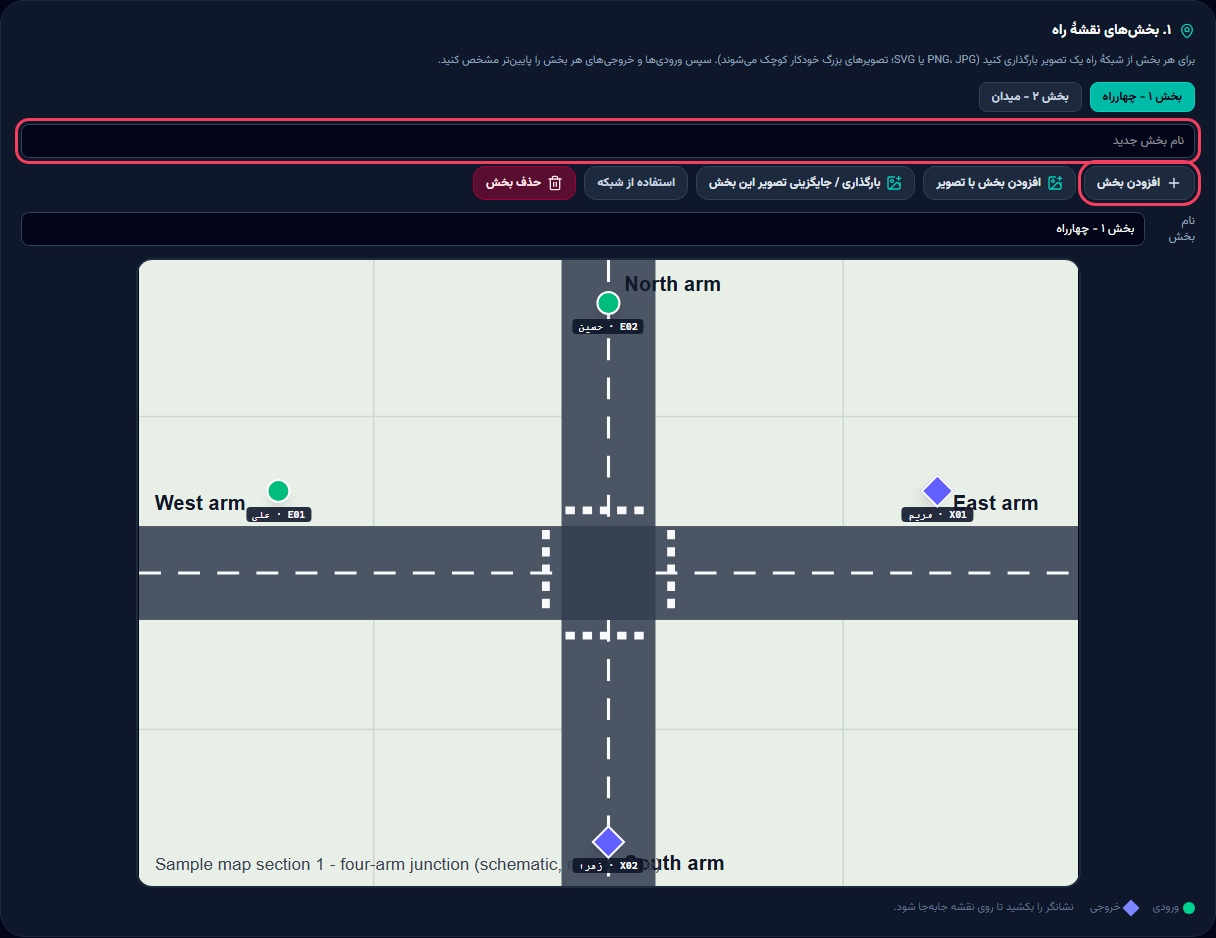
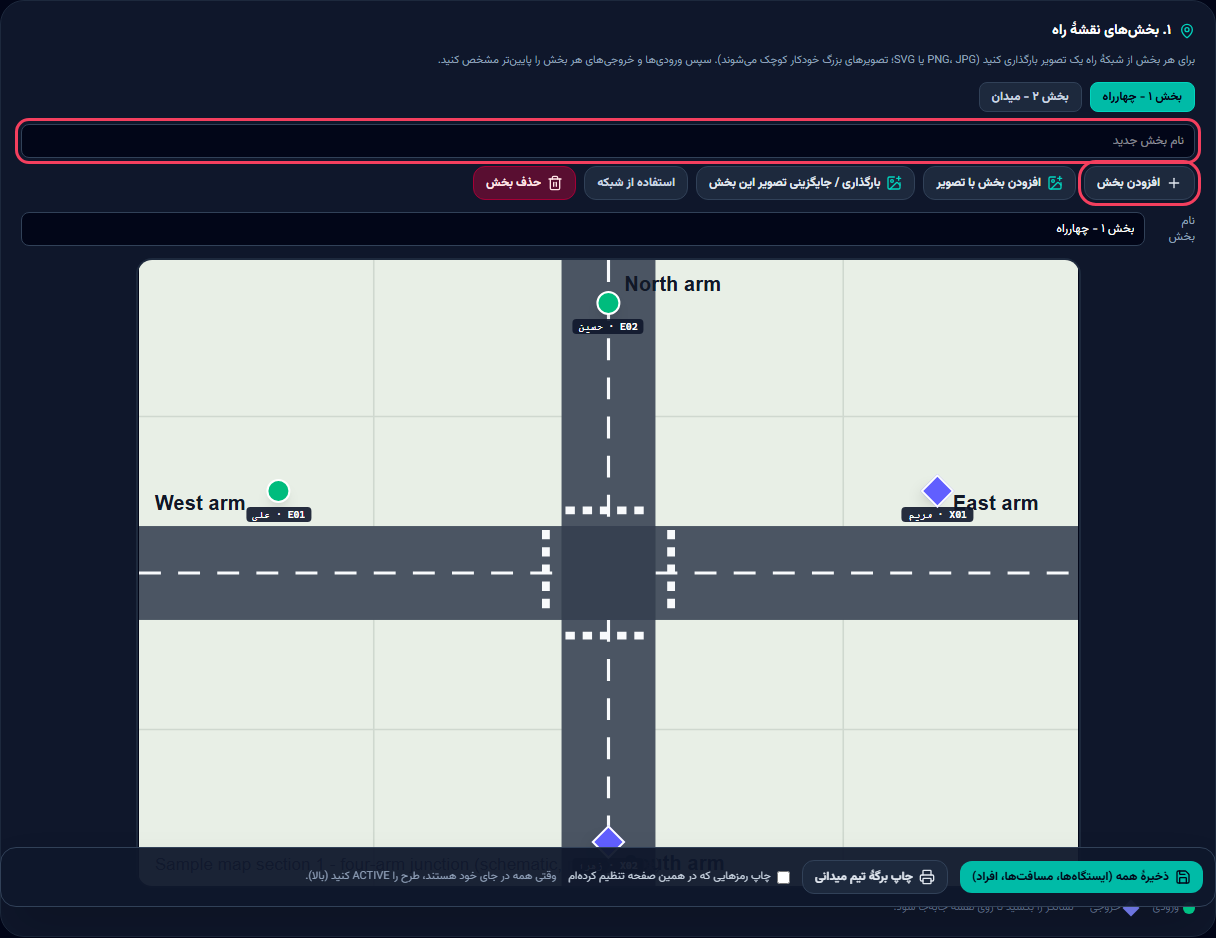
Set or change each person's username and password inside the point card; suggested short credentials; optional printing of the passwords set on the page; save bar not sticky on phones

Changed region(s): [[0.0938, 0.8966, 1.0, 0.9893]]

diff --git a/src/components/StudySetup.tsx b/src/components/StudySetup.tsx
@@ -29,7 +29,11 @@ export const StudySetup: React.FC<Props> = ({ lang, study, onChanged }) => {
   const [mapId, setMapId] = useState<string | null>(null);
   const [tick, setTick] = useState(0); // bump to reload the local edit state from the server
   const [newMapName, setNewMapName] = useState('');
-  const [person, setPerson] = useState({ full_name: '', username: '', password: '', point: '' });
+  const [np, setNp] = useState<{ code: string; full_name: string; username: string; password: string } | null>(null); // inline "new person" form of one point card
+  const [edit, setEdit] = useState<Record<string, { username: string; password: string }>>({});
+  // credentials set on THIS page: only kept in memory (passwords are hashed on the server and cannot be shown again)
+  const [fresh, setFresh] = useState<Record<string, { username: string; password?: string }>>({});
+  const [showCreds, setShowCreds] = useState(false);
   const canvas = useRef<HTMLDivElement>(null);
   const [ratios, setRatios] = useState<Record<string, number>>({}); // width/height of each map image: markers are % of the IMAGE, so the frame must have its shape
   const [form, setForm] = useState({ name: '', study_date: new Date().toISOString().slice(0, 10), start_time: '08:00', end_time: '12:00', timezone: 'Asia/Tehran', supervisor_name: '' });
@@ -121,13 +125,47 @@ export const StudySetup: React.FC<Props> = ({ lang, study, onChanged }) => {
   const peopleOf = (code: string) => asg.map((r, i) => ({ r, i })).filter((x) => x.r.point_code === code);
   const addPerson = (code: string, userId: string) => userId && !asg.some((r) => r.point_code === code && r.user_id === userId) && setAsg([...asg, { user_id: userId, point_code: code, period_start: '', period_end: '' }]);
 
-  const createPerson = () => run(async () => {
-    if (!person.point) throw new Error(pick(lang, 'Choose the point this person will count at.', 'ایستگاهی را که این فرد در آن شمارش میکند انتخاب کنید.'));
-    const u = await api<{ id: string }>('POST', '/users', { username: person.username.trim().toLowerCase(), full_name: person.full_name.trim(), role: 'OBSERVER', password: person.password });
-    setAsg((a) => [...a, { user_id: u.id, point_code: person.point, period_start: '', period_end: '' }]);
-    setPerson({ full_name: '', username: '', password: '', point: person.point });
+  /** Suggestions that keep credentials short: username = the point code (e1, x2 ...), password = 2 digits without repeats or runs. */
+  const suggestUsername = (code: string) => {
+    const taken = new Set(observers.map((o) => o.username));
+    const base = code.toLowerCase();
+    let u = base;
+    for (let n = 2; taken.has(u); n++) u = `${base}${n}`;
+    return u;
+  };
+  const suggestPassword = () => {
+    for (;;) {
+      const n = 10 + (crypto.getRandomValues(new Uint32Array(1))[0] % 90);
+      const x = Math.floor(n / 10), y = n % 10;
+      if (x !== y && Math.abs(x - y) !== 1) return String(n);
+    }
+  };
+  const openNewPerson = (code: string) => setNp({ code, full_name: '', username: suggestUsername(code), password: suggestPassword() });
+
+  const createPersonAt = () => run(async () => {
+    if (!np) return;
+    const username = np.username.trim().toLowerCase();
+    const u = await api<{ id: string }>('POST', '/users', { username, full_name: np.full_name.trim(), role: 'OBSERVER', password: np.password });
+    setAsg((a) => [...a, { user_id: u.id, point_code: np.code, period_start: '', period_end: '' }]);
+    setFresh((f) => ({ ...f, [u.id]: { username, password: np.password } }));
+    setNp(null);
     await loadObservers();
   }, pick(lang, 'Account created and placed at the point. Press "Save everything" to confirm the assignment.', 'حساب ساخته شد و در ایستگاه قرار گرفت. برای نهاییشدن «ذخیرهٔ همه» را بزنید.'));
+
+  const applyCreds = (userId: string) => run(async () => {
+    const e = edit[userId];
+    const cur = observers.find((o) => o.id === userId);
+    if (!e || !cur) return;
+    const body: { username?: string; password?: string } = {};
+    const uname = e.username.trim().toLowerCase();
+    if (uname && uname !== cur.username) body.username = uname;
+    if (e.password) body.password = e.password;
+    if (!Object.keys(body).length) throw new Error(pick(lang, 'Nothing to change.', 'چیزی برای تغییر نیست.'));
+    await api('PATCH', `/users/${userId}`, body);
+    setFresh((f) => ({ ...f, [userId]: { username: body.username ?? cur.username, password: body.password ?? f[userId]?.password } }));
+    setEdit((x) => { const { [userId]: _drop, ...rest } = x; return rest; });
+    await loadObservers();
+  }, pick(lang, 'Username / password updated (effective immediately; the person is signed out everywhere if the password changed).', 'نام کاربری / رمز بهروز شد (بلافاصله اعمال میشود؛ اگر رمز عوض شده باشد فرد از همهٔ دستگاهها خارج میشود).'));
 
   const saveAll = () => run(async () => {
     const codes = new Set(points.map((p) => p.code));
@@ -237,33 +275,52 @@ export const StudySetup: React.FC<Props> = ({ lang, study, onChanged }) => {
                       <select aria-label="Section" value={p.map_id ?? firstMap ?? ''} onChange={(e) => setPoint(i, { map_id: e.target.value })} className={inputCls}>{maps.map((m) => <option key={m.id} value={m.id}>{m.name}</option>)}</select>
                     </div>
                     <div className="space-y-1.5">
-                      {peopleOf(p.code).map(({ r, i: ai }) => (
-                        <div key={ai} className="flex items-center gap-2 text-xs">
-                          <span className="px-2 py-1 rounded-lg bg-teal-500/15 border border-teal-500/30 text-teal-200 flex-1 truncate" data-testid={`person-${p.code}`}>{nameOf(r.user_id)?.full_name ?? '?'} <span className="font-mono text-slate-400">@{nameOf(r.user_id)?.username}</span></span>
-                          <details className="text-[10px] text-slate-400"><summary className="cursor-pointer">{pick(lang, 'shift', 'شیفت')}</summary>
-                            <div className="grid gap-1 mt-1"><input type="datetime-local" aria-label="From" value={r.period_start} onChange={(e) => setAsg(asg.map((x, k) => (k === ai ? { ...x, period_start: e.target.value } : x)))} className={inputCls} /><input type="datetime-local" aria-label="To" value={r.period_end} onChange={(e) => setAsg(asg.map((x, k) => (k === ai ? { ...x, period_end: e.target.value } : x)))} className={inputCls} /></div></details>
-                          <button onClick={() => setAsg(asg.filter((_, k) => k !== ai))} aria-label="Remove person" className="text-slate-500 hover:text-rose-400"><X className="w-3.5 h-3.5" /></button>
-                        </div>
-                      ))}
+                      {peopleOf(p.code).map(({ r, i: ai }) => {
+                        const u = nameOf(r.user_id);
+                        const e = edit[r.user_id];
+                        const changed = !!e && ((e.username.trim().toLowerCase() !== (u?.username ?? '') && e.username.trim() !== '') || e.password !== '');
+                        return (
+                          <div key={ai} className="rounded-xl bg-teal-500/10 border border-teal-500/30 p-2 space-y-1.5 text-xs">
+                            <div className="flex items-center gap-2">
+                              <span className="text-teal-200 flex-1 truncate font-semibold" data-testid={`person-${p.code}`}>{u?.full_name ?? '?'} <span className="font-mono text-slate-400">@{u?.username}</span></span>
+                              <details className="text-[10px] text-slate-400"><summary className="cursor-pointer">{pick(lang, 'shift', 'شیفت')}</summary>
+                                <div className="grid gap-1 mt-1"><input type="datetime-local" aria-label="From" value={r.period_start} onChange={(ev) => setAsg(asg.map((x, k) => (k === ai ? { ...x, period_start: ev.target.value } : x)))} className={inputCls} /><input type="datetime-local" aria-label="To" value={r.period_end} onChange={(ev) => setAsg(asg.map((x, k) => (k === ai ? { ...x, period_end: ev.target.value } : x)))} className={inputCls} /></div></details>
+                              <button onClick={() => setAsg(asg.filter((_, k) => k !== ai))} aria-label="Remove person" className="text-slate-500 hover:text-rose-400"><X className="w-3.5 h-3.5" /></button>
+                            </div>
+                            <div className="grid grid-cols-[1fr_1fr_auto] gap-1.5">
+                              <input aria-label="Username" value={e?.username ?? u?.username ?? ''} onChange={(ev) => setEdit({ ...edit, [r.user_id]: { username: ev.target.value.toLowerCase(), password: e?.password ?? '' } })} className={`${inputCls} font-mono`} data-testid={`person-username-${p.code}`} />
+                              <input aria-label="New password" placeholder={pick(lang, 'new password', 'رمز جدید')} autoComplete="off" value={e?.password ?? ''} onChange={(ev) => setEdit({ ...edit, [r.user_id]: { username: e?.username ?? u?.username ?? '', password: ev.target.value } })} className={`${inputCls} font-mono`} data-testid={`person-password-${p.code}`} />
+                              <button onClick={() => applyCreds(r.user_id)} disabled={busy || !changed} className={`${btn} bg-slate-800 border border-slate-700 text-slate-200 disabled:opacity-40`} data-testid={`person-apply-${p.code}`}>{pick(lang, 'Apply', 'اعمال')}</button>
+                            </div>
+                            {fresh[r.user_id]?.password && <p className="text-[11px] text-amber-200">{pick(lang, 'Password set on this page', 'رمز تنظیمشده در این صفحه')}: <b className="font-mono" data-testid={`person-fresh-${p.code}`}>{fresh[r.user_id].password}</b> <span className="text-slate-400">({pick(lang, 'visible only until you leave this page', 'فقط تا خروج از این صفحه دیده میشود')})</span></p>}
+                          </div>
+                        );
+                      })}
                       <select aria-label={`Add person at ${p.code}`} value="" onChange={(e) => addPerson(p.code, e.target.value)} className={inputCls} data-testid={`add-person-${p.code}`}>
                         <option value="">{peopleOf(p.code).length ? pick(lang, '+ another person (shift)', '+ فرد دیگر (شیفت)') : pick(lang, '+ choose the person counting here', '+ فرد شمارشگر این ایستگاه را انتخاب کنید')}</option>
                         {observers.filter((o) => !peopleOf(p.code).some((x) => x.r.user_id === o.id)).map((o) => <option key={o.id} value={o.id}>{o.full_name} (@{o.username})</option>)}
                       </select>
+                      {np?.code === p.code ? (
+                        <div className="rounded-xl border border-slate-700 p-2 space-y-1.5" data-testid={`np-form-${p.code}`}>
+                          <input aria-label="Full name" placeholder={pick(lang, 'Full name', 'نام و نام خانوادگی')} value={np.full_name} onChange={(ev) => setNp({ ...np, full_name: ev.target.value })} className={inputCls} data-testid="np-name" />
+                          <div className="grid grid-cols-2 gap-1.5">
+                            <input aria-label="Username" placeholder={pick(lang, 'username', 'نام کاربری')} value={np.username} onChange={(ev) => setNp({ ...np, username: ev.target.value.toLowerCase() })} className={`${inputCls} font-mono`} data-testid="np-username" />
+                            <input aria-label="Password" placeholder={pick(lang, 'password', 'رمز')} autoComplete="off" value={np.password} onChange={(ev) => setNp({ ...np, password: ev.target.value })} className={`${inputCls} font-mono`} data-testid="np-password" />
+                          </div>
+                          <p className="text-[10px] text-slate-400">{pick(lang, 'Suggested: username = point code, password = 2 digits (an observer password may be as short as 2 characters). Edit freely.', 'پیشنهاد: نام کاربری = کد ایستگاه، رمز = ۲ رقم (رمز آمارگیر میتواند ۲ نویسه باشد). آزادانه ویرایش کنید.')}</p>
+                          <div className="flex gap-2">
+                            <button onClick={createPersonAt} disabled={busy || !np.full_name.trim() || np.username.trim().length < 2 || np.password.length < 2} className={`${btn} bg-teal-500 text-slate-950 disabled:opacity-40`} data-testid="np-create"><UserPlus className="w-4 h-4" />{pick(lang, 'Create and place here', 'ساخت و قراردادن اینجا')}</button>
+                            <button onClick={() => setNp(null)} className={`${btn} bg-slate-800 border border-slate-700 text-slate-300`}>{pick(lang, 'Cancel', 'انصراف')}</button>
+                          </div>
+                        </div>
+                      ) : (
+                        <button onClick={() => openNewPerson(p.code)} className={`${btn} w-full justify-center bg-slate-800 border border-slate-700 text-slate-200`} data-testid={`new-person-${p.code}`}><UserPlus className="w-4 h-4 text-teal-400" />{pick(lang, 'New person for this point (create account)', 'فرد جدید برای این ایستگاه (ساخت حساب)')}</button>
+                      )}
                     </div>
                   </div>
                 ))}
               </div>
 
-              <div className="rounded-2xl border border-slate-800 bg-slate-950 p-3 space-y-2" data-testid="quick-person">
-                <h4 className="text-xs font-bold text-white flex items-center gap-2"><UserPlus className="w-4 h-4 text-teal-400" />{pick(lang, 'New person: create an account and place them at a point', 'فرد جدید: ساخت حساب و قراردادن در یک ایستگاه')}</h4>
-                <div className="grid grid-cols-2 md:grid-cols-5 gap-2">
-                  <input aria-label="Full name" placeholder={pick(lang, 'Full name', 'نام و نام خانوادگی')} value={person.full_name} onChange={(e) => setPerson({ ...person, full_name: e.target.value })} className={inputCls} data-testid="qp-name" />
-                  <input aria-label="Username" placeholder={pick(lang, 'username (e.g. e1)', 'نام کاربری (مثلاً e1)')} value={person.username} onChange={(e) => setPerson({ ...person, username: e.target.value.toLowerCase() })} className={inputCls} data-testid="qp-username" />
-                  <input aria-label="Password" type="password" autoComplete="new-password" placeholder={pick(lang, 'password (min 2)', 'گذرواژه (حداقل ۲)')} value={person.password} onChange={(e) => setPerson({ ...person, password: e.target.value })} className={inputCls} data-testid="qp-password" />
-                  <select aria-label="Point" value={person.point} onChange={(e) => setPerson({ ...person, point: e.target.value })} className={inputCls} data-testid="qp-point"><option value="">{pick(lang, 'Point…', 'ایستگاه…')}</option>{points.map((p) => <option key={p.code} value={p.code}>{p.code}</option>)}</select>
-                  <button onClick={createPerson} disabled={busy || !person.full_name || !person.username || person.password.length < 2} className={`${btn} bg-slate-800 border border-slate-700 text-slate-200 justify-center`} data-testid="qp-create"><UserPlus className="w-4 h-4" />{pick(lang, 'Create', 'ساخت')}</button>
-                </div>
-              </div>
             </section>
 
             <section className="bg-slate-900 rounded-3xl p-5 border border-slate-800 space-y-3">
@@ -274,9 +331,10 @@ export const StudySetup: React.FC<Props> = ({ lang, study, onChanged }) => {
               )}
             </section>
 
-            <div className="sticky bottom-3 flex flex-wrap items-center gap-3 bg-slate-900/95 border border-slate-700 rounded-2xl p-3 shadow-2xl">
+            <div className="sm:sticky bottom-3 flex flex-wrap items-center gap-3 bg-slate-900/95 border border-slate-700 rounded-2xl p-3 shadow-2xl">
               <button onClick={saveAll} disabled={busy} className={`${btn} bg-teal-500 text-slate-950`} data-testid="save-all"><Save className="w-4 h-4" />{pick(lang, 'Save everything (points, distances, people)', 'ذخیرهٔ همه (ایستگاهها، مسافتها، افراد)')}</button>
               <button onClick={() => window.print()} className={`${btn} bg-slate-800 border border-slate-700 text-slate-200`} data-testid="print-sheet"><Printer className="w-4 h-4" />{pick(lang, 'Print team sheet', 'چاپ برگهٔ تیم میدانی')}</button>
+              <label className="flex items-center gap-1.5 text-[11px] text-slate-300"><input type="checkbox" checked={showCreds} onChange={(e) => setShowCreds(e.target.checked)} data-testid="sheet-creds" />{pick(lang, 'print the passwords I set on this page', 'چاپ رمزهایی که در همین صفحه تنظیم کردهام')}</label>
               <span className="text-[11px] text-slate-400">{pick(lang, 'Set the study ACTIVE (above) when everyone is in place.', 'وقتی همه در جای خود هستند، طرح را ACTIVE کنید (بالا).')}</span>
             </div>
           </>
@@ -287,12 +345,12 @@ export const StudySetup: React.FC<Props> = ({ lang, study, onChanged }) => {
         <section className="hidden print:block bg-white text-black p-8" data-testid="team-sheet" dir={lang === 'fa' ? 'rtl' : 'ltr'}>
           <h1 className="text-xl font-black">{pick(lang, 'Field team sheet', 'برگهٔ تیم میدانی')} - {study.name}</h1>
           <p className="text-sm">{study.study_date} · {study.start_time}-{study.end_time} · {study.timezone}</p>
-          <p className="text-sm mb-3">{pick(lang, 'Sign in at', 'ورود از نشانی')}: <b>{window.location.origin}</b> · {pick(lang, 'Open the "Field Collector" tab; your station is pinned at the top. Passwords are handed over separately.', 'تب «ثبت میدانی» را باز کنید؛ ایستگاه شما بالای صفحه قفل است. گذرواژهها جداگانه تحویل داده میشوند.')}</p>
+          <p className="text-sm mb-3">{pick(lang, 'Sign in at', 'ورود از نشانی')}: <b>{window.location.origin}</b> · {pick(lang, 'Open the "Field Collector" tab; your station is pinned at the top.', 'تب «ثبت میدانی» را باز کنید؛ ایستگاه شما بالای صفحه قفل است.')} {showCreds ? pick(lang, 'CONFIDENTIAL: this sheet contains passwords - hand it over personally and do not keep copies.', 'محرمانه: این برگه رمز دارد؛ حضوری تحویل دهید و نسخه نگه ندارید.') : pick(lang, 'Passwords are handed over separately.', 'گذرواژهها جداگانه تحویل داده میشوند.')}</p>
           <table className="w-full border-collapse text-sm">
-            <thead><tr className="bg-gray-200">{[pick(lang, 'Point', 'ایستگاه'), pick(lang, 'Type', 'نوع'), pick(lang, 'Description', 'توضیح'), pick(lang, 'Map section', 'بخش نقشه'), pick(lang, 'Person (username)', 'فرد (نام کاربری)'), pick(lang, 'Signature', 'امضا')].map((h) => <th key={h} className="border border-black p-2 text-start">{h}</th>)}</tr></thead>
+            <thead><tr className="bg-gray-200">{[pick(lang, 'Point', 'ایستگاه'), pick(lang, 'Type', 'نوع'), pick(lang, 'Description', 'توضیح'), pick(lang, 'Map section', 'بخش نقشه'), showCreds ? pick(lang, 'Person (username / password)', 'فرد (نام کاربری / رمز)') : pick(lang, 'Person (username)', 'فرد (نام کاربری)'), pick(lang, 'Signature', 'امضا')].map((h) => <th key={h} className="border border-black p-2 text-start">{h}</th>)}</tr></thead>
             <tbody>{sheetRows.map(({ p, people }) => (
               <tr key={p.code}><td className="border border-black p-2 font-mono font-bold">{p.code}</td><td className="border border-black p-2">{p.point_type === 'ENTRY' ? pick(lang, 'Entry', 'ورودی') : pick(lang, 'Exit', 'خروجی')}</td><td className="border border-black p-2">{p.description}</td>
-                <td className="border border-black p-2">{maps.find((m) => m.id === (p.map_id ?? firstMap))?.name}</td><td className="border border-black p-2">{people.length ? people.map((u) => `${u.full_name} (${u.username})`).join('، ') : '—'}</td><td className="border border-black p-2 w-32" /></tr>
+                <td className="border border-black p-2">{maps.find((m) => m.id === (p.map_id ?? firstMap))?.name}</td><td className="border border-black p-2">{people.length ? people.map((u) => `${u.full_name} (${u.username}${showCreds && fresh[u.id]?.password ? ' / ' + fresh[u.id].password : ''})`).join('، ') : '—'}</td><td className="border border-black p-2 w-32" /></tr>
             ))}</tbody>
           </table>
         </section>

diff --git a/e2e/app.spec.ts b/e2e/app.spec.ts
@@ -160,13 +160,16 @@ test.describe('supervisor and administrator', () => {
     await expect(page.getByTestId('marker-E01')).toBeVisible();
     await page.getByTestId('dist-E01-X01').fill('1800');
 
-    // one person per point, created on the spot
+    // one person per point, created on the spot inside the point's own card, with suggested short credentials
     for (const [point, name] of [['E01', 'Counter Entry'], ['X01', 'Counter Exit']] as const) {
-      await page.getByTestId('qp-name').fill(`${name} ${tag}`);
-      await page.getByTestId('qp-username').fill(`${name.split(' ')[1].toLowerCase()}.${tag}`.slice(0, 32));
-      await page.getByTestId('qp-password').fill('Observer-pass-1');
-      await page.getByTestId('qp-point').selectOption(point);
-      await page.getByTestId('qp-create').click();
+      await page.getByTestId(`new-person-${point}`).click();
+      const form = page.getByTestId(`np-form-${point}`);
+      await expect(form.getByTestId('np-username')).toHaveValue(point.toLowerCase());       // suggestion = the point code
+      await expect(form.getByTestId('np-password')).toHaveValue(/^\d\d$/);                  // suggestion = two digits
+      await form.getByTestId('np-name').fill(`${name} ${tag}`);
+      await form.getByTestId('np-username').fill(`${name.split(' ')[1].toLowerCase()}.${tag}`.slice(0, 32));
+      await form.getByTestId('np-password').fill('Observer-pass-1');
+      await form.getByTestId('np-create').click();
       await expect(page.getByTestId('setup-msg')).toContainText(/account created/i);
     }
     await expect(page.getByTestId('person-E01')).toContainText('Counter Entry');
@@ -174,6 +177,14 @@ test.describe('supervisor and administrator', () => {
     await page.getByTestId('save-all').click();
     await expect(page.getByTestId('setup-msg')).toContainText(/saved/i);
     await expect(page.getByTestId('person-X01')).toContainText('Counter Exit'); // still there after the reload from the server
+    // change the username and password of the person at X01 right in the card (2-digit password), effective at once
+    const newName = `xz.${tag}`.slice(0, 32);
+    await page.getByTestId('person-username-X01').fill(newName);
+    await page.getByTestId('person-password-X01').fill('73');
+    await page.getByTestId('person-apply-X01').click();
+    await expect(page.getByTestId('setup-msg')).toContainText(/updated/i);
+    await expect(page.getByTestId('person-fresh-X01')).toHaveText('73');
+    await expect(page.getByTestId('person-X01')).toContainText(`@${newName}`);
     await page.getByTestId('study-status').selectOption('ACTIVE');
     await expect(page.getByTestId('study-status')).toHaveValue('ACTIVE');
     await shot(page, 'setup', project);
@@ -182,12 +193,18 @@ test.describe('supervisor and administrator', () => {
     await expect(page.getByTestId('team-sheet')).toBeVisible();
     await expect(page.getByTestId('team-sheet')).toContainText(`Counter Exit ${tag}`);
     await expect(page.getByTestId('team-sheet')).toContainText('North junction');
+    await expect(page.getByTestId('team-sheet')).not.toContainText('73');             // passwords are not printed unless asked
+    await page.emulateMedia({ media: 'screen' });
+    await page.getByTestId('sheet-creds').check();
+    await page.emulateMedia({ media: 'print' });
+    await expect(page.getByTestId('team-sheet')).toContainText(`${newName} / 73`);
+    await expect(page.getByTestId('team-sheet')).toContainText('Observer-pass-1');
     await page.emulateMedia({ media: 'screen' });
 
     // the new person can sign in and sees exactly their own point
     await page.getByTestId('logout').click();
     await expect(page.getByTestId('login-form')).toBeVisible(); // wait until the sign-out request has finished before navigating
-    await login(page, `exit.${tag}`.slice(0, 32), 'Observer-pass-1');
+    await login(page, newName, '73');
     await expect(page.getByTestId('station-code')).toHaveText('X01');
   });
 

diff --git a/docs/guide/capture.spec.ts b/docs/guide/capture.spec.ts
@@ -93,11 +93,12 @@ test('capture guide screenshots', async ({ browser }) => {
   // ---- people at the points (accounts created on the spot)
   const people: [string, string, string][] = [['علی احمدی', 'ali.ahmadi', 'E01'], ['حسین رضایی', 'hossein.rezaei', 'E02'], ['مریم کریمی', 'maryam.karimi', 'X01'], ['زهرا نوری', 'zahra.nouri', 'X02'], ['رضا محمدی', 'reza.mohammadi', 'E03'], ['سارا حسینی', 'sara.hosseini', 'X03']];
   for (const [name, user, point] of people) {
-    await admin.getByTestId('qp-name').fill(name);
-    await admin.getByTestId('qp-username').fill(user);
-    await admin.getByTestId('qp-password').fill(PW);
-    await admin.getByTestId('qp-point').selectOption(point);
-    await admin.getByTestId('qp-create').click();
+    await admin.getByTestId(`new-person-${point}`).click();
+    const form = admin.getByTestId(`np-form-${point}`);
+    await form.getByTestId('np-name').fill(name);
+    await form.getByTestId('np-username').fill(user);
+    await form.getByTestId('np-password').fill(PW);
+    await form.getByTestId('np-create').click();
     await expect(admin.getByTestId(`person-${point}`)).toContainText(name);
   }
   for (const [o, d, m] of [['E01', 'X01', '1200'], ['E01', 'X02', '1500'], ['E02', 'X01', '1500'], ['E02', 'X02', '1200']]) await admin.getByTestId(`dist-${o}-${d}`).fill(m);
@@ -112,8 +113,11 @@ test('capture guide screenshots', async ({ browser }) => {
   await mark(admin, 'add-entry', 'add-exit', 'point-card-E01', 'add-person-E01');
   await elShot(admin, 'points-panel', '06-points');
   await admin.evaluate(() => document.querySelectorAll<HTMLElement>('[data-testid]').forEach((e) => { e.style.outline = ''; }));
-  await mark(admin, 'quick-person', 'qp-create');
-  await elShot(admin, 'quick-person', '07-quick-person');
+  await admin.getByTestId('new-person-E01').click();   // the form that opens inside the card (suggested username and password)
+  await admin.getByTestId('np-name').fill('فرد دوم (شیفت عصر)');
+  await mark(admin, 'np-username', 'np-password', 'np-create', 'person-username-E01', 'person-password-E01', 'person-apply-E01');
+  await elShot(admin, 'point-card-E01', '07-quick-person');
+  await admin.getByRole('button', { name: /Cancel|انصراف/ }).first().click();
   await admin.evaluate(() => document.querySelectorAll<HTMLElement>('[data-testid]').forEach((e) => { e.style.outline = ''; }));
   await mark(admin, 'save-all', 'print-sheet', 'study-status', 'audio-toggle');
   await admin.screenshot({ path: `${OUT}/08-save-bar.png`, clip: { x: 0, y: 60, width: 1280, height: 330 } });

diff --git a/docs/guide/build_guide.py b/docs/guide/build_guide.py
@@ -476,16 +476,17 @@ steps([
     "برای **شیفتهای مختلف**، دوباره از همان فهرست فرد دیگری را اضافه کنید («+ فرد دیگر (شیفت)»). با کلیک روی «شیفت» کنار هر فرد میتوانید **بازهٔ زمانی** مجاز او (از ساعت … تا ساعت …، به وقت منطقهٔ طرح) را بنویسید؛ خالی = کل طرح. ثبتِ بیرون از بازه (با ۵ دقیقه تلورانس) پذیرفته نمیشود.",
     "برای برداشتن فرد از ایستگاه، ✕ کنار نامش را بزنید.",
 ])
-h(3, "ساخت فرد جدید در همانجا")
-para("اگر آمارگیر هنوز حساب ندارد، در بخش «فرد جدید: ساخت حساب و قراردادن در یک ایستگاه» نام، نام کاربری، گذرواژه و ایستگاه را بنویسید و «ساخت» را بزنید. حساب ساخته و فرد در همان ایستگاه گذاشته میشود.")
-fig("07-quick-person.png", "فرم ساخت فرد جدید و قراردادن او در یک ایستگاه.", 15.0)
+h(3, "نام کاربری و رمز هر فرد، در همان کارت ایستگاه")
+para("زیر نام هر فرد در کارت ایستگاه، دو کادر هست: **نام کاربری** و **رمز جدید**. هر دو را مینویسید و «اعمال» را میزنید؛ تغییر **بلافاصله** اعمال میشود (اگر رمز عوض شود فرد از همهٔ دستگاهها خارج میشود و باید با رمز جدید وارد شود). رمزی که همینجا تنظیم کردهاید زیر نام فرد با حروف درشت دیده میشود، **فقط تا زمانی که این صفحه باز است** (سرور رمز را ذخیرهشدهی رمزنگاریشده نگه میدارد و بعداً قابل نمایش نیست).")
+para("برای فردی که هنوز حساب ندارد، دکمهٔ **«فرد جدید برای این ایستگاه (ساخت حساب)»** در همان کارت را بزنید. فرم کوچکی باز میشود با **نام کاربری و رمز پیشنهادی** (نام کاربری = کد ایستگاه مثل `e01` و رمز = یک عدد ۲ رقمی بدون رقم تکراری یا پشتسرهم). هر دو را میتوانید آزادانه عوض کنید؛ سپس «ساخت و قراردادن اینجا» را بزنید. حساب ساخته و فرد در همان ایستگاه گذاشته میشود.")
+fig("07-quick-person.png", "کارت یک ایستگاه: کادرهای نام کاربری و رمز هر فرد (با دکمهٔ «اعمال») و فرم «فرد جدید» با پیشنهاد نام کاربری و رمز.", 15.0)
 callout("توجه", "تغییرات این صفحه (جابهجایی نشانگرها، کدها، مسافتها و افراد) **تا زدن «ذخیرهٔ همه» ذخیره نمیشوند**. دکمهٔ ذخیره در نوار شناور پایین صفحه است. ساخت حساب و بخش نقشه فوراً ذخیره میشوند، اما تخصیص فرد به ایستگاه پس از «ذخیرهٔ همه» نهایی میشود.")
 
 h(2, "۳-۷. ذخیره، برگهٔ تیم میدانی و فعالسازی")
 fig("08-save-bar.png", "تنظیمات طرح (وضعیت، کلیپ صوتی) و نوار «ذخیرهٔ همه / چاپ برگهٔ تیم».", 15.5)
 steps([
     "«ذخیرهٔ همه (ایستگاهها، مسافتها، افراد)» را بزنید. پیام «ذخیره شد» میآید. اگر خطا بیاید (مثلاً کد تکراری)، متن خطا دلیل را میگوید.",
-    "«چاپ برگهٔ تیم میدانی» را بزنید و چاپ یا «ذخیره بهصورت PDF» کنید. برگه شامل همهٔ ایستگاهها، نوع، توضیح، بخش نقشه، نام و نام کاربری فرد، ستون امضا و نشانی سامانه است؛ برای هماهنگی و تحویل به تیم مناسب است. **گذرواژهها در برگه نیست.**",
+    "«چاپ برگهٔ تیم میدانی» را بزنید و چاپ یا «ذخیره بهصورت PDF» کنید. برگه شامل همهٔ ایستگاهها، نوع، توضیح، بخش نقشه، نام و نام کاربری فرد، ستون امضا و نشانی سامانه است؛ برای هماهنگی و تحویل به تیم مناسب است. **گذرواژهها بهطور پیشفرض در برگه نیست.** اگر برگهای با نام کاربری و رمز برای تحویل حضوری میخواهید، پیش از چاپ تیک «چاپ رمزهایی که در همین صفحه تنظیم کردهام» را بزنید؛ در این حالت فقط رمزهایی چاپ میشود که **در همین جلسه** ساخته یا عوض کردهاید و برگه با عبارت «محرمانه» چاپ میشود. چنین برگهای را حضوری تحویل دهید و نگه ندارید.",
     "هنگامی که همه آمادهاند، وضعیت طرح را **ACTIVE** کنید. از این لحظه آمارگیران میتوانند ثبت کنند.",
     "پس از پایان برداشت، وضعیت را **COMPLETED** کنید تا ثبت جدید پذیرفته نشود.",
 ])
